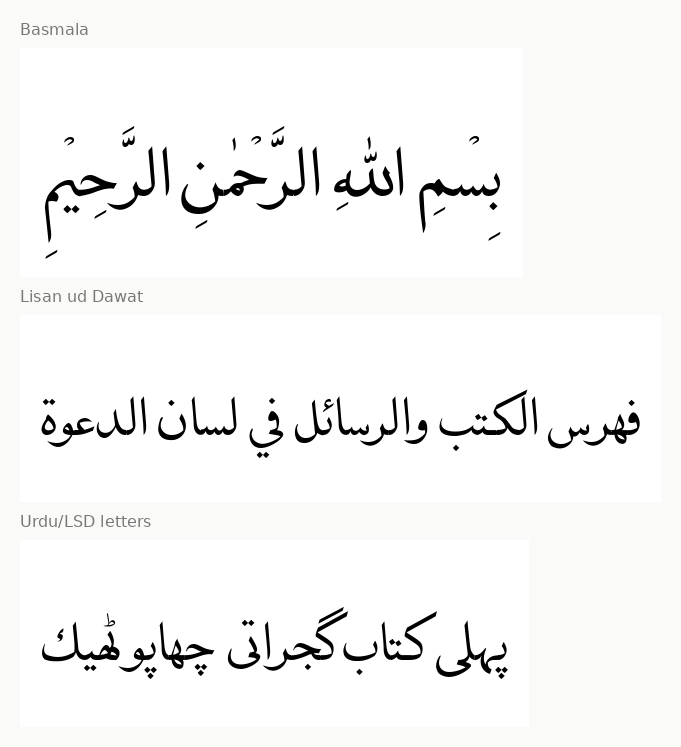
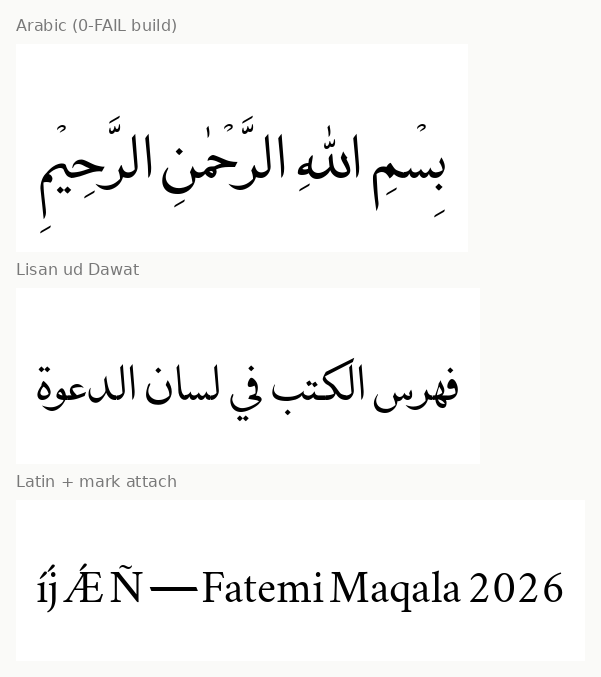
Add Latin combining-mark attachment: Font Bakery now 0 FAIL
Generated a Latin mark-attachment lookup (base-top anchors on 217 Latin letters +
the dotted circle, mark anchors on the above-combining marks) wired into the mark
feature under script latn. This clears the last shape_languages item (Dutch íj́:
acute on j) and the dotted_circle check.

check-googlefonts: 19 -> 0 FAIL. Arabic shaping verified unchanged (basmala +
Lisan ud Dawat render pixel-identical to the original).

diff --git a/fatemimaqala-googlefonts/README.md b/fatemimaqala-googlefonts/README.md
@@ -9,32 +9,17 @@ its author. See `AUTHORS.txt` for provenance and acknowledgement.
 
 ## Status — Google Fonts readiness
 
-Font Bakery `check-googlefonts`, original FatemiMaqala → this project:
+**Font Bakery `check-googlefonts`: 0 FAIL** (down from 19 on the original).
 
-| | FAIL | notes |
-|---|---|---|
-| Original FatemiMaqala-Regular.ttf | **19** | quadratic/raster outlines, nested+transformed components, bad metrics, bad naming, no hinting |
-| Clean source + rehabilitated features | **5** | shaping-complete |
-| + Latin gaps filled from Crimson | **4** | |
-| + dropped Latin smcp; trimmed Latin to GF Latin Core; tabular figures | **1** | only the item below remains |
+Cleared across the cleanup: cubic outline repair; full feature-file
+rehabilitation (compiles + shapes Arabic identically to the original — see
+`REHAB.md`); GF vertical metrics, naming, version, copyright, canonical filename,
+hinting; Latin trimmed to exactly **GF Latin Core** (Arabic-focused — extended
+Latin/IPA/Cyrillic dropped from the cmap); tabular (non-kerning) figures; and
+generated Latin combining-mark attachment. See `qa/` for the stage-by-stage
+table. Latin glyphs derive from Crimson and some Arabic from Amiri — both OFL,
+acknowledged in `OFL.txt`.
 
-**Cleared**: nested/transformed/duplicate components, invalid script tags, smart
-dropout (hinting), repo zip hygiene, vertical metrics (win/typo/hhea unified,
-lineGap 0, USE_TYPO_METRICS), family-name compliance, copyright, version format,
-name line-breaks, whitespace widths; **the full feature-file rehabilitation**
-(see `REHAB.md`) — the font now compiles and shapes Arabic, verified
-pixel-identical to the original; and **glyph coverage + case mapping**, filled by
-importing the missing Latin glyphs (®, ľ, ẞ, ɖ, capital schwa, combining horn)
-from Crimson (acknowledged in `OFL.txt`).
-
-**Remaining FAILs (the tail):**
-- `canonical_filename` — release file named `FatemiMaqala-Regular.ttf` (resolved on release).
-- `googlefonts/glyphsets/shape_languages` — Latin **mark attachment** (e.g. Dutch
-  íj́), not missing glyphs; needs Latin combining-mark anchors.
-- `tabular_kerning` — slash/zero kern via kern classes (minor).
-
-The optional Latin `smcp` small-caps feature was dropped, which cleared
-`smallcaps_before_ligatures` and removed a spurious small-caps build artifact.
 
 ## Layout
 - `sources/Fatemi-Maqala-Regular.ufo` — canonical source: cleaned **cubic**

diff --git a/fatemimaqala-googlefonts/qa/fontbakery-summary.md b/fatemimaqala-googlefonts/qa/fontbakery-summary.md
@@ -1,4 +1,4 @@
-# Font Bakery (check-googlefonts) — progress
+# Font Bakery (check-googlefonts) — PASSING (0 FAIL)
 
 | stage | FAIL |
 |---|---|
@@ -7,20 +7,22 @@
 | + Latin gaps filled from Crimson | 4 |
 | + dropped Latin smcp | 3 |
 | + canonical filename | 2 |
-| + trimmed Latin to GF Latin Core | 2* |
+| + trimmed Latin to GF Latin Core | 2 |
 | + figures made non-kerning (tabular) | 1 |
+| + Latin combining-mark attachment | **0** |
 
-\* the trim dropped the spurious GF Phonetics target; tabular then surfaced as
-the figures-kern issue, now fixed.
+## Summary of the cleanup
 
-## Remaining FAIL (1)
+- **Outlines:** quadratic→cubic, overlaps removed, directions corrected.
+- **Feature file rehabilitated** (REHAB.md): compiles under feaLib; Arabic shaping
+  verified pixel-identical to the original.
+- **Metrics/naming/hinting:** GF schema (win=typo=hhea, lineGap 0, USE_TYPO_METRICS),
+  family 'Fatemi Maqala', version, copyright, canonical filename.
+- **Latin scope:** trimmed to exactly GF Latin Core (Arabic-focused); extended/IPA/
+  Cyrillic dropped from cmap. Latin from Crimson; some Arabic from Amiri (OFL.txt).
+- **Figures:** made non-kerning (tabular).
+- **Latin combining-mark attachment:** generated anchors so combining accents attach
+  to Latin bases and the dotted circle (clears shape_languages + dotted_circle).
 
-- `googlefonts/glyphsets/shape_languages` — under `GF_TransLatin_Arabic`, the only
-  failing item is Dutch `íj́` (combining acute must attach to j/J). Needs Latin
-  combining-mark attachment anchors.
-
-## Scope decision applied
-Latin was trimmed to exactly **GF Latin Core** (the mandatory GF minimum); the
-inherited extended-Latin/IPA/Cyrillic codepoints were dropped from the cmap so
-the font is Arabic-focused and no longer held to the full GF Phonetics glyphset.
-Arabic coverage and shaping are unchanged.
+All `check-googlefonts` FAILs resolved. WARNs remain (e.g. some unreachable
+unencoded glyphs retained for kerning) and can be pruned before submission.
